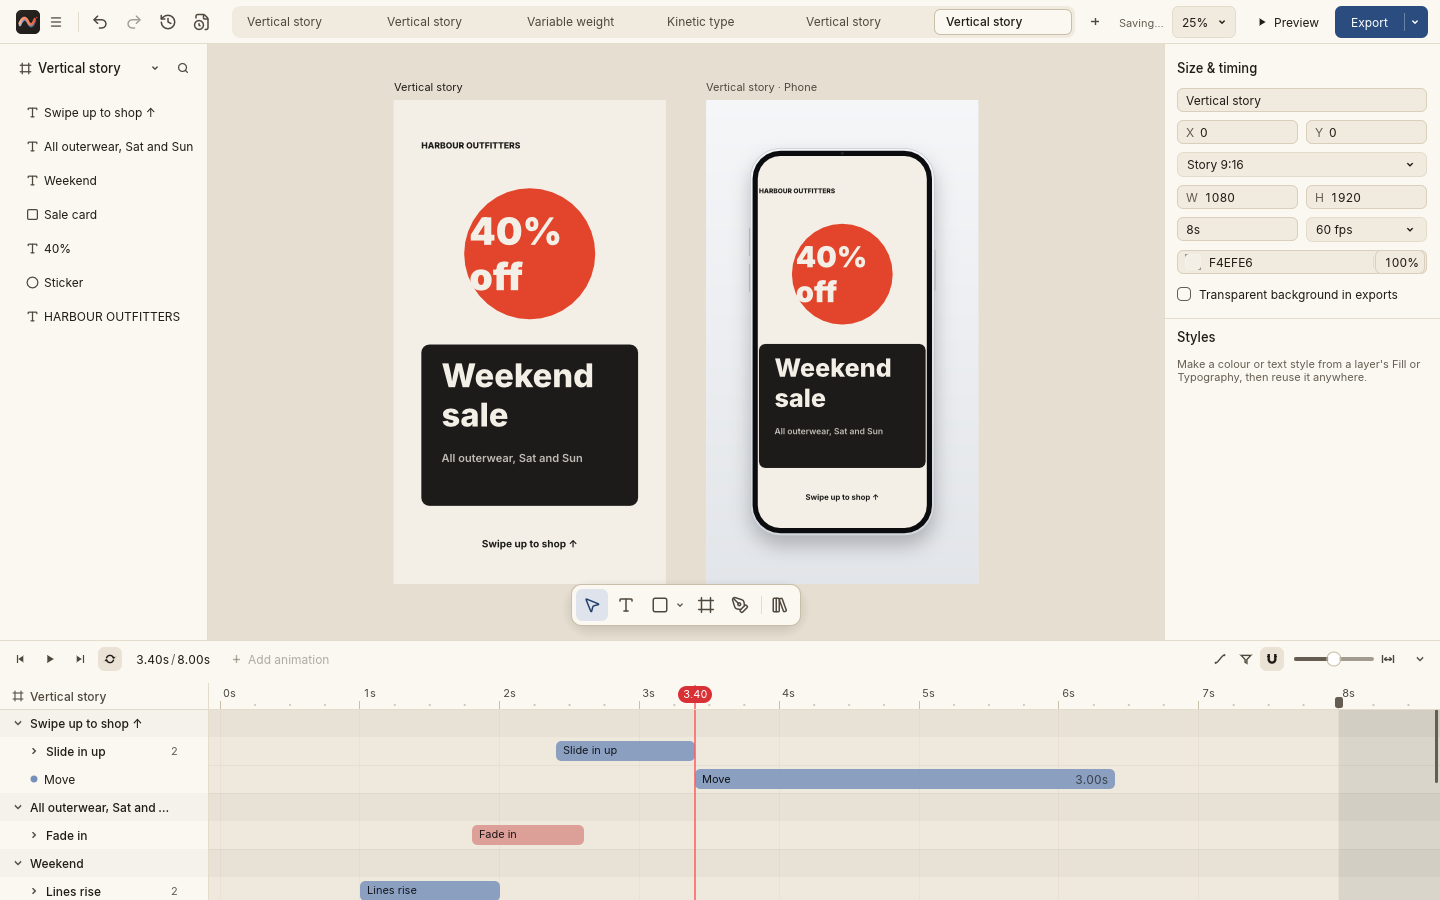
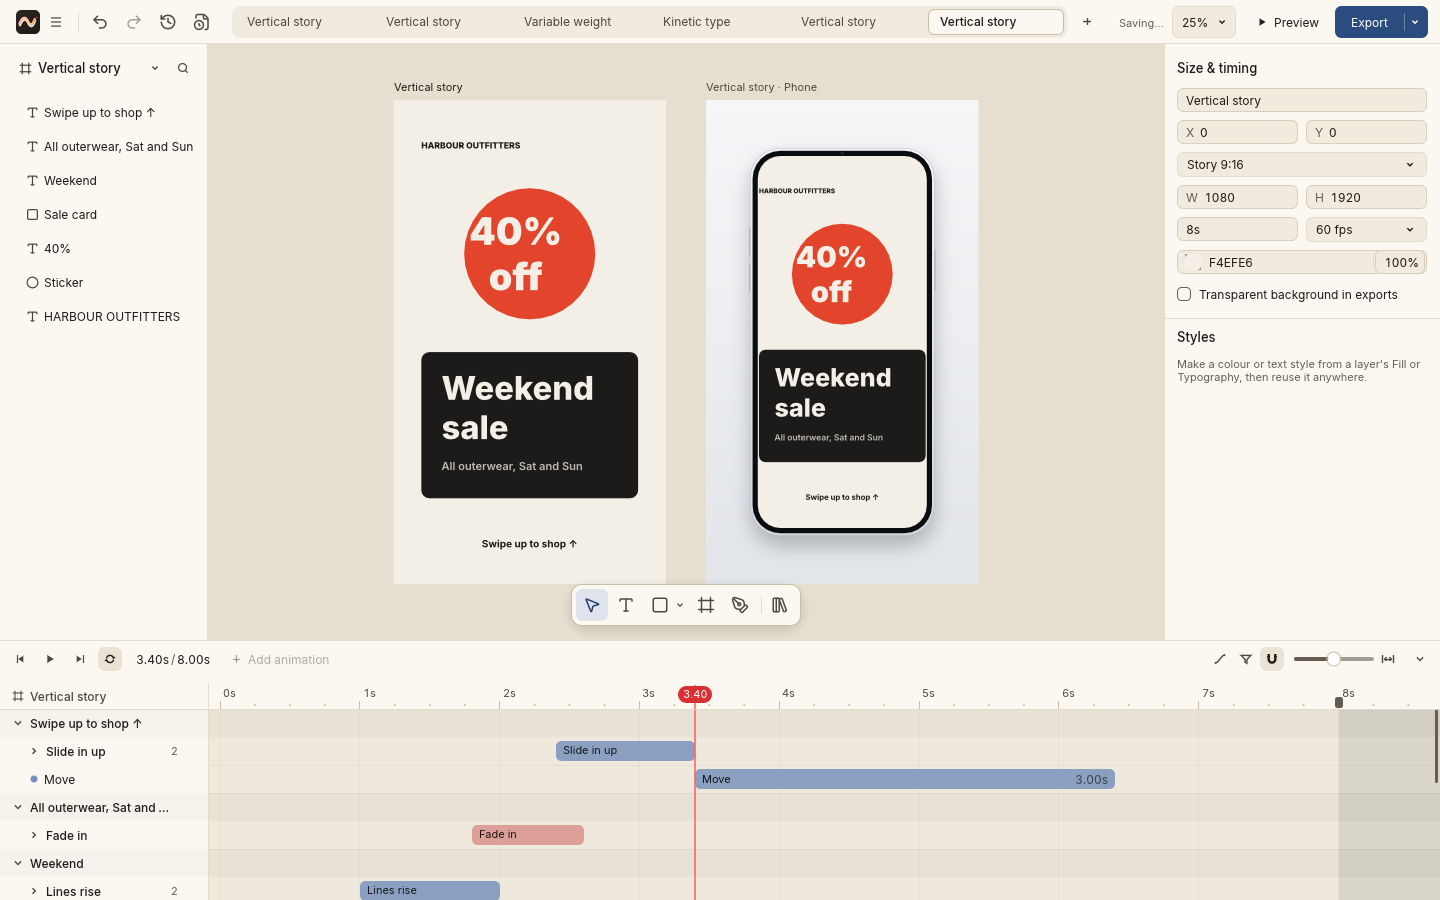
Screenshots: the editor and the templates page from 0.9.6, text centred
mockups.png (the pinned editor) and templates.png come from the 0.9.6
screenshot tests in the Washi theme; the other shots show the demo project
or a photo and are unchanged.

Claude-Session: https://claude.ai/code/session_01JCPfpm2a8BnAonXMXPfX45

diff --git a/README.md b/README.md
@@ -149,7 +149,9 @@ To update one, replace the PNG with a new light-mode screenshot under the
 same name (or add a file and import it). The current ones were taken on
 4 November 2026 (app main after task 068, the 0.9.3 look) from the app's
 screenshot tests in the Washi theme, which matches the site's paper and
-indigo. Run from the app repo, after any gate there has finished:
+indigo. `mockups.png` and `templates.png` were retaken on 9 November 2026
+from 0.9.6 (tidied templates), the same way, into `site-2026-11-09-washi/app`.
+Run from the app repo, after any gate there has finished:
 
 ```sh
 MS_UI_THEME=washi MS_UI_LIGHT=1 MS_UI_SNAPSHOTS=$PWD/target/shots/site-2026-11-04-washi target/emaki-cargo.sh \
